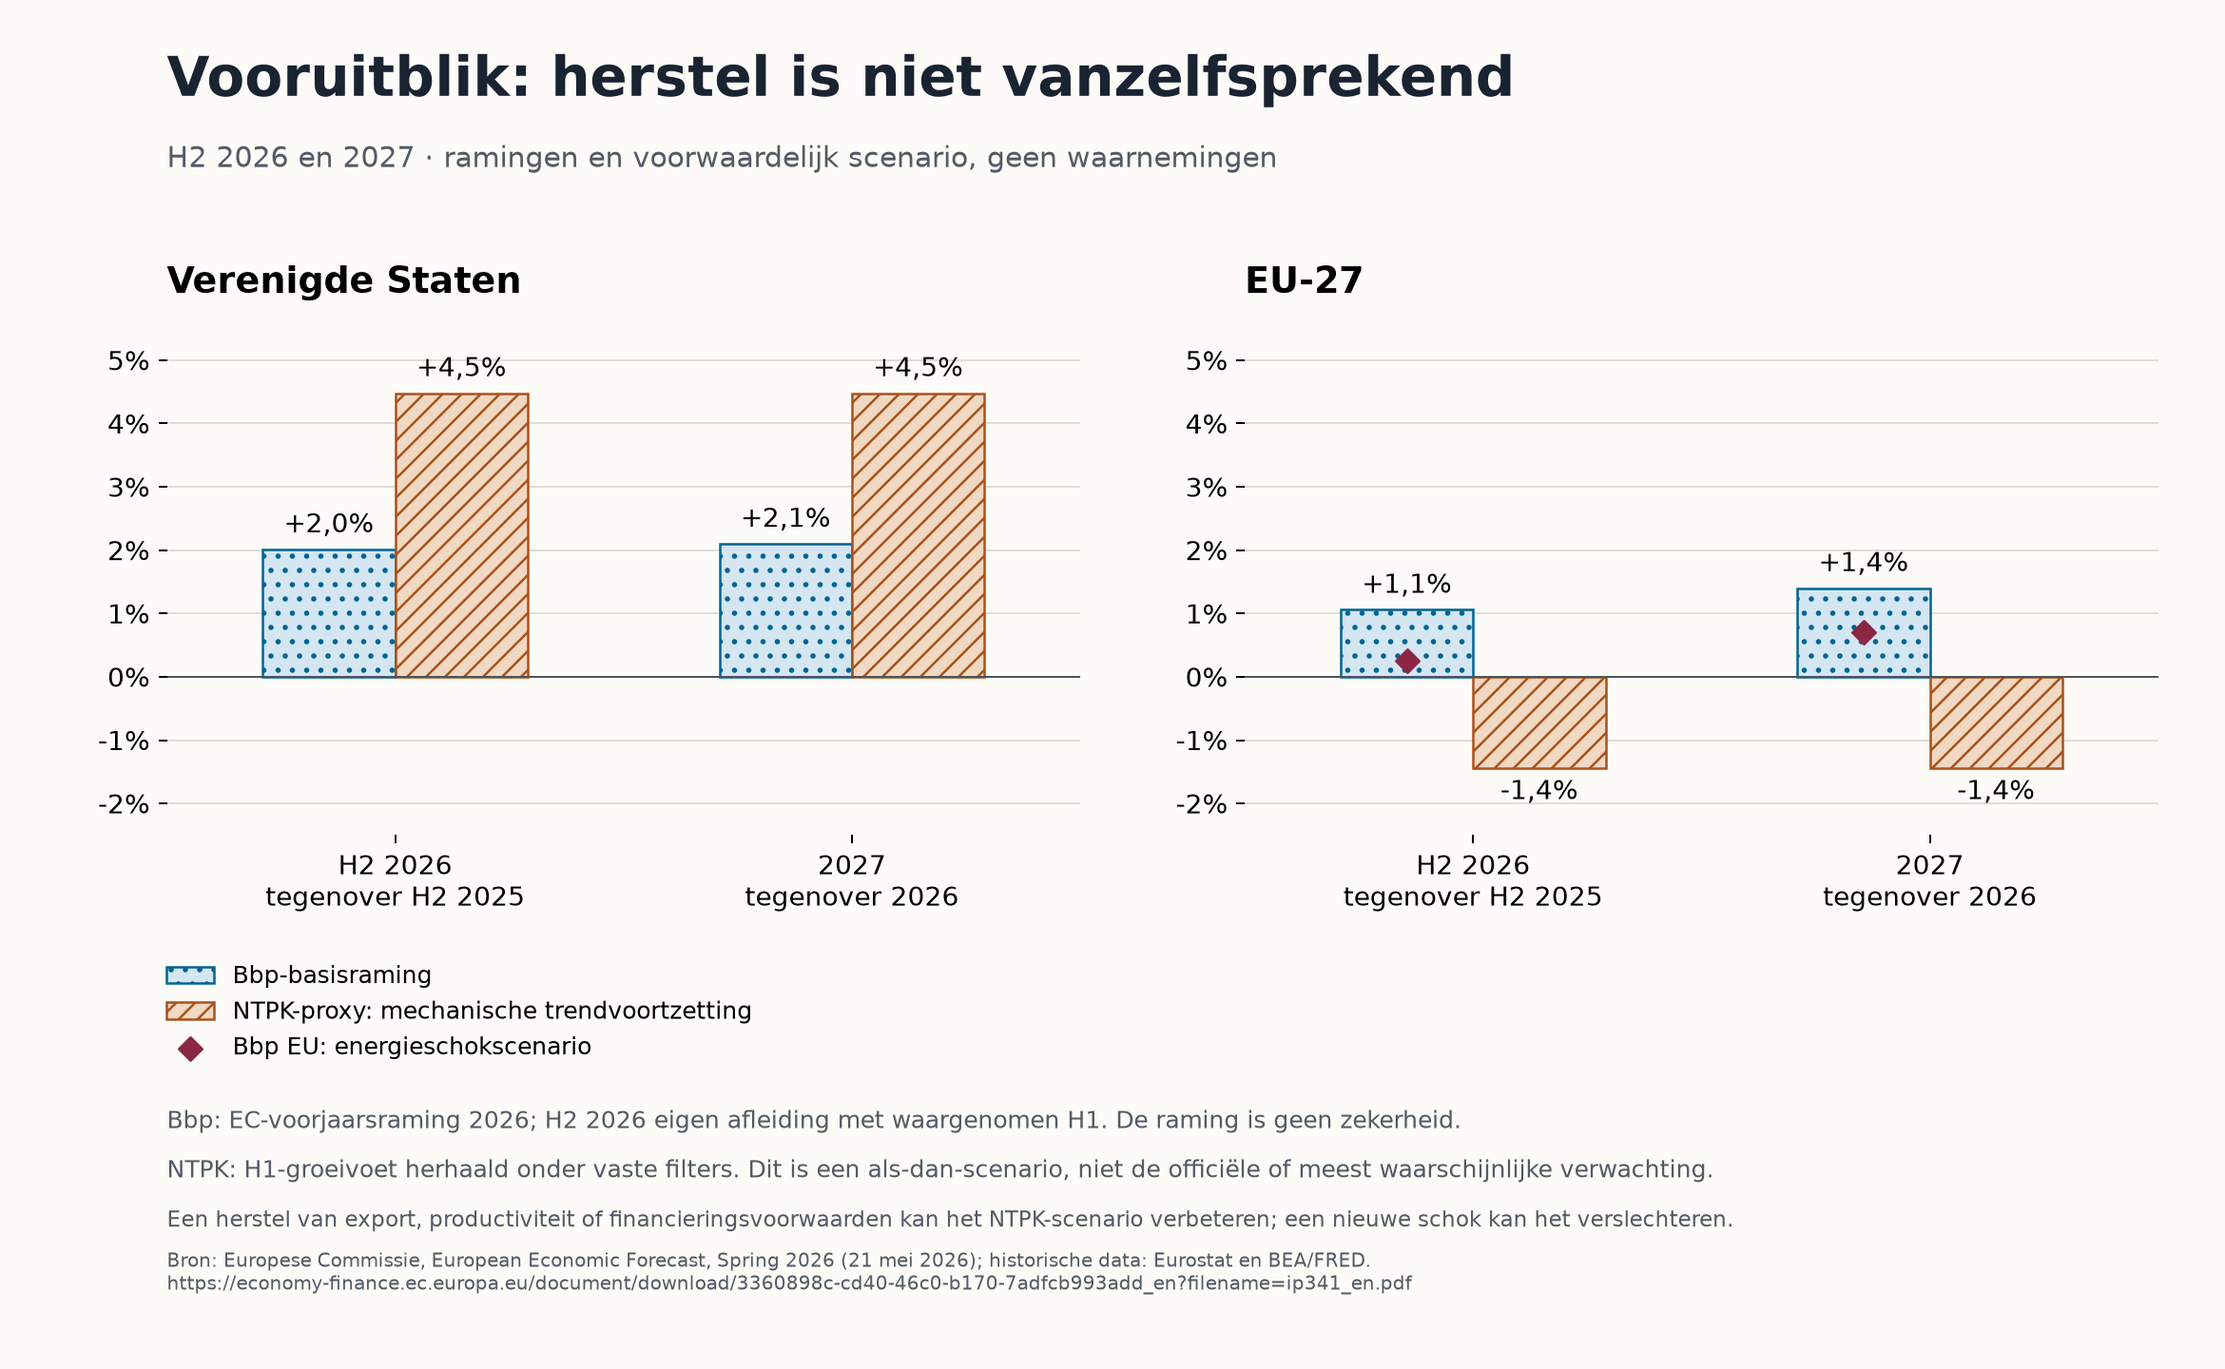
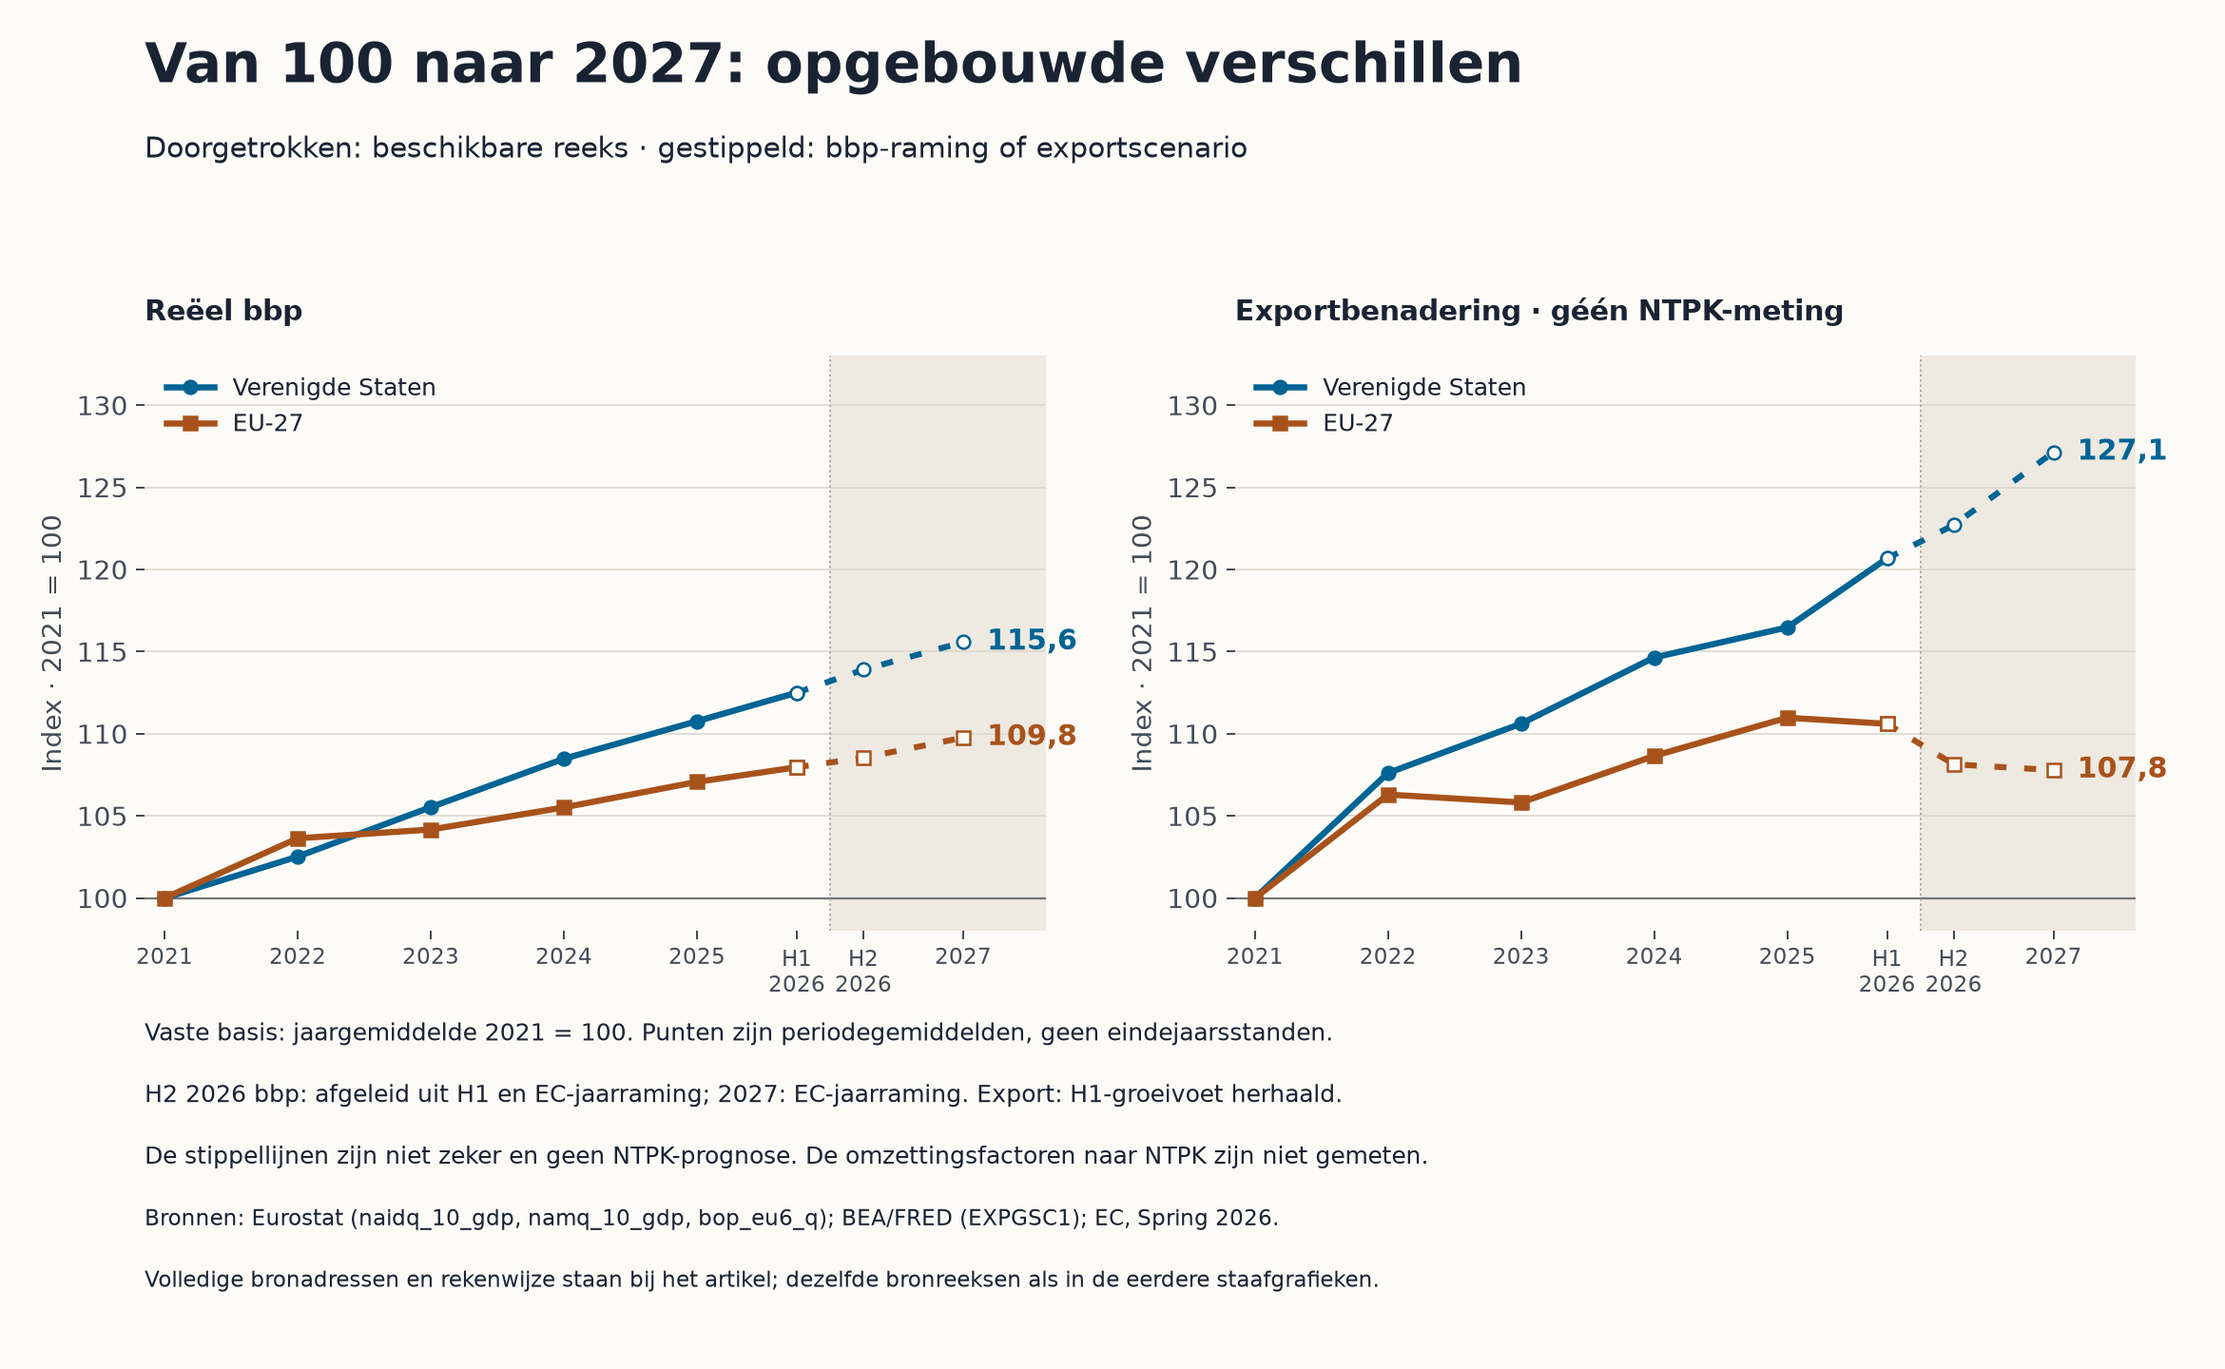
Toon cumulatieve ontwikkelingslijnen vanaf 2021=100 en begrens NTPK-conclusie

diff --git a/nl/wat-opkomt/van-uitholling-naar-wederopbouw.html b/nl/wat-opkomt/van-uitholling-naar-wederopbouw.html
@@ -431,23 +431,23 @@ pensioenpotten, spaargeld, woningen en bedrijven. Een langzame
 uitholling is gevaarlijker dan een snelle crisis, omdat elke stap nog
 draaglijk lijkt en niemand ingrijpt, terwijl het verloren gaat wat nog
 te redden was.</p>
-<h3 id="europa-groeikloof">2.10 Groei zonder versterking: Europa op de verkeerde weg</h3>
-<p>De vraag is niet alleen of het bbp groeit, maar of de productieve basis die deze groei moet dragen sterker wordt. Daarom zetten we voor de Verenigde Staten en de Europese Unie van 27 landen de reële bbp-groei naast een benadering van de exportgebonden NTPK-trend, over 2022–2025 en de eerste helft van 2026. De vergelijking van de eerste helft van 2026 is met de eerste helft van 2025, niet met een volledig jaar. [71–76]</p>
-<p><strong>M/S. De bbp-cijfers zijn statistische waarnemingen; de gearceerde NTPK-reeks is een berekende trendbenadering.</strong> Zij volgt de prijsgecorrigeerde externe exportstroom onder constante binnenlandse toegevoegde-waardeaandelen, productieve fractie en lastendruk. Bij de EU is handel tussen lidstaten uitgesloten. Veranderingen in deze omzettingsfactoren zijn niet afzonderlijk gemeten; de reeks is dus geen volledige NTPK-meting en evenmin een meting van innovatie of arbeidsmarktbeleid. [75, 76]</p>
-<figure class="growth-figure"><a href="/assets/wat-opkomt/van-uitholling-groei/VS-BBP-en-NTPK-trend.png" rel="noopener noreferrer" target="_blank"><img alt="VS: bbp-groei tegenover benaderde NTPK-trend, 2022 tot en met H1 2026; in H1 2026 respectievelijk plus 2,4 en plus 4,5 procent." height="1296" loading="lazy" src="/assets/wat-opkomt/van-uitholling-groei/VS-BBP-en-NTPK-trend.png" width="2160"/></a><figcaption>Verenigde Staten: bbp-groei en de berekende externe-exportbenadering van de NTPK-trend. Klik op de grafiek voor de volledige afbeelding.</figcaption></figure>
-<figure class="growth-figure"><a href="/assets/wat-opkomt/van-uitholling-groei/EU27-BBP-en-NTPK-trend.png" rel="noopener noreferrer" target="_blank"><img alt="EU-27: bbp-groei tegenover benaderde NTPK-trend, 2022 tot en met H1 2026; in H1 2026 respectievelijk plus 1,1 en min 1,4 procent." height="1296" loading="lazy" src="/assets/wat-opkomt/van-uitholling-groei/EU27-BBP-en-NTPK-trend.png" width="2160"/></a><figcaption>EU-27: het bbp groeit in H1 2026, terwijl de hier gebruikte benadering van de exportgebonden kern terugvalt. Het gaat om een voorwaardelijke trendberekening, niet om een rechtstreeks waargenomen NTPK-reeks.</figcaption></figure>
-<p>Het scherpste verschil verschijnt in de eerste helft van 2026: het Amerikaanse bbp groeit met ongeveer 2,4% en de exportgebonden trendbenadering met 4,5%; in de EU-27 groeit het bbp met ongeveer 1,1%, terwijl die trendbenadering met 1,4% daalt. Voor de EU is de prijsontwikkeling van de externe export benaderd met de prijsfactor van de totale uitvoer; die keuze kan de omvang en bij kleine veranderingen ook het teken van de uitkomst beïnvloeden. [71–76]</p>
-<p><strong>Mijn oordeel: dit is voor Europa de verkeerde richting.</strong> Niet omdat elke sector krimpt of omdat ieder kwartaal slechter is dan het vorige, maar omdat een positief totaalcijfer kan samengaan met verzwakking van de externe verdienbasis. De grafieken laten ook herstel in 2024 en 2025 zien; zij bewijzen geen onafgebroken neergang. De waarschuwing zit in de recente ontkoppeling: groei melden is onvoldoende wanneer de basis onder die groei niet aantoonbaar sterker wordt.</p>
+<h3 id="europa-groeikloof">2.10 De cumulatieve groeikloof tussen Europa en de VS</h3>
+<p>Losse groeipercentages laten niet zien welk verschil zich over meerdere jaren opbouwt. Daarom beginnen alle ontwikkelingslijnen hier bij dezelfde startwaarde: <strong>het jaargemiddelde van 2021 is 100</strong>. De index voor iedere latere periode is 100 maal het reële niveau in die periode gedeeld door het reële jaargemiddelde van 2021. De basis verandert niet bij de overgang naar een halfjaar. De vergelijking betreft de Verenigde Staten en de EU-27. [73–76]</p>
+<p><strong>M/S. Het bbp is statistisch gemeten; de andere lijn is de eerder gebruikte exportbenadering, geen volledige NTPK-meting.</strong> Voor de VS gaat het om de reële uitvoer; voor de EU om extra-EU uitvoer, prijsgecorrigeerd met de prijsfactor van de totale uitvoer. Alleen de exportstroom is hier in de tijd berekend. Binnenlandse toegevoegde-waardeaandelen, productieve fractie α en lastendruk τ zijn niet jaarlijks opnieuw vastgesteld. Hun veranderingen kunnen de werkelijke NTPK anders laten verlopen. Deze ontbrekende berekening wordt niet vervangen door een NTPK-label. [73–76]</p>
+<figure class="growth-figure"><a href="/assets/wat-opkomt/van-uitholling-groei/VS-BBP-en-NTPK-trend.png?v=cumulatief-100" rel="noopener noreferrer" target="_blank"><img alt="Cumulatieve ontwikkeling Verenigde Staten, 2021 is 100. H1 2026: reëel bbp 112,5 en reële export 120,7. De exportlijn is geen volledige NTPK-meting." height="1296" loading="lazy" src="/assets/wat-opkomt/van-uitholling-groei/VS-BBP-en-NTPK-trend.png?v=cumulatief-100" width="2160"/></a><figcaption>Verenigde Staten: beide lijnen starten op 100. De punten voor 2021–2025 zijn jaargemiddelden; H1 2026 is het halfjaargemiddelde op dezelfde vaste basis.</figcaption></figure>
+<figure class="growth-figure"><a href="/assets/wat-opkomt/van-uitholling-groei/EU27-BBP-en-NTPK-trend.png?v=cumulatief-100" rel="noopener noreferrer" target="_blank"><img alt="Cumulatieve ontwikkeling EU-27, 2021 is 100. H1 2026: reëel bbp 108,0 en externe-exportbenadering 110,6. De exportbenadering ligt nog boven 2021 en is cumulatief sterker gestegen dan het bbp." height="1296" loading="lazy" src="/assets/wat-opkomt/van-uitholling-groei/EU27-BBP-en-NTPK-trend.png?v=cumulatief-100" width="2160"/></a><figcaption>EU-27: de exportbenadering valt recent iets terug, maar staat nog boven het niveau van 2021. Zij bewijst geen onafgebroken afbraak van de productieve kern.</figcaption></figure>
+<p>Op deze vaste basis bereikt het Amerikaanse bbp in H1 2026 een index van 112,5 en het Europese bbp 108,0: respectievelijk ongeveer 12,5% en 8,0% boven het jaargemiddelde van 2021. De exportlijnen staan op 120,7 voor de VS en 110,6 voor de EU. De Europese exportbenadering is sinds 2021 dus cumulatief sterker gestegen dan het Europese bbp. Voor de EU blijft de exportprijscorrectie een benadering: de prijsfactor omvat ook intra-EU handel, hoewel de getoonde exportstroom die handel uitsluit. [73–76]</p>
+<p><strong>De waarschuwing is een relatieve achterstand en recente verzwakking, niet een bewezen jarenlange instorting.</strong> De VS lopen in deze reeksen verder uit op Europa; in de Europese exportbenadering is bovendien een recente terugval zichtbaar. Maar de formulering “groei zonder versterking” ging op grond van deze grafieken te ver: de cumulatieve exportlijn ligt nog boven haar startniveau. Evenmin rechtvaardigt een exportbenadering op zichzelf een uitspraak over de volledige NTPK. Voor zo’n uitspraak moeten de jaarlijkse omzettingsfactoren worden meegerekend.</p>
 <p>Ook de mogelijkheid om bedrijven te vernieuwen telt mee. De OECD constateert dat buitensporige of onvoorspelbare ontslagkosten de verplaatsing van arbeid naar productievere activiteiten kunnen remmen, maar wijst ook op de waarde van behoud van bedrijfsspecifieke kennis. Dat ondersteunt de aandacht voor aanpassingsvermogen, zonder dat deze grafieken bewijzen welk deel van de groeikloof door ontslagbescherming of door één regering is veroorzaakt. [79]</p>
-<h3 id="groei-vooruitblik-2027">2.11 H2 2026 en 2027: het risico van doorgaan op dezelfde weg</h3>
-<p><strong>S. De toekomstkolommen zijn ramingen en scenario’s, geen waarnemingen.</strong> Voor een vergelijking met dezelfde geografische afbakening gebruiken we de voorjaarsraming 2026 van de Europese Commissie voor zowel de VS als de EU-27: voor het volledige jaar 2026 respectievelijk 2,2% en 1,1% bbp-groei, voor 2027 respectievelijk 2,1% en 1,4%. De informatiegrens van deze raming is 4 mei 2026. De Amerikaanse ramingen van 2,2% en 2,1% worden ook genoemd in de OECD-vooruitblik van september; de OECD-cijfers voor de eurozone worden hier niet als EU-27-cijfers gebruikt. [77, 78]</p>
-<p>De bbp-balken voor H2 2026 zijn een eigen rekenkundige afleiding: hoeveel groei ten opzichte van H2 2025 resteert als de genoemde jaarraming wordt gecombineerd met de inmiddels gemeten eerste helft van 2026? Dat komt afgerond neer op 2,0% voor de VS en 1,1% voor de EU-27. Het zijn geen afzonderlijke officiële halfjaarprognoses. [71–74, 77]</p>
-<p>Voor de NTPK-trend tonen we een eenvoudig <strong>als-dan-scenario</strong>: als de jaar-op-jaar-groeivoet van H1 2026 aanhoudt, blijft de Amerikaanse trendbenadering op ongeveer +4,5% en de Europese op ongeveer −1,4%, zowel in H2 2026 als in 2027. Die voortzetting is geen onafhankelijke prognose en krijgt geen waarschijnlijkheidspercentage. Zij maakt zichtbaar wat het uitblijven van herstel van de recente Europese exporttrend zou betekenen; betere of slechtere omstandigheden veranderen de uitkomst.</p>
-<figure class="growth-figure"><a href="/assets/wat-opkomt/van-uitholling-groei/Vooruitblik-groei-H2-2026-2027.png" rel="noopener noreferrer" target="_blank"><img alt="Vooruitblik H2 2026 en 2027: bbp-basisramingen, NTPK-proxy bij doorzetting van de recente trend en een afzonderlijk Europees energieschokscenario." height="1440" loading="lazy" src="/assets/wat-opkomt/van-uitholling-groei/Vooruitblik-groei-H2-2026-2027.png" width="2340"/></a><figcaption>Vooruitblik met afzonderlijke statussen: bbp-basisraming, rekenkundige halfjaarafleiding en mechanische NTPK-trendvoortzetting. De ruitjes tonen het energieschokscenario voor het Europese bbp.</figcaption></figure>
-<p>Dat de risico’s serieus zijn, blijkt ook uit het ongunstige energiescenario van de Europese Commissie: bij een grotere en langduriger verstoring daalt de verwachte EU-groei naar 0,7% in zowel 2026 als 2027, tegenover 1,1% en 1,4% in het basisscenario. Voor H2 2026 impliceert de jaarraming van 0,7%, gecombineerd met de gemeten eerste helft, ongeveer 0,3% groei tegenover H2 2025. Dit is een ander scenario dan de NTPK-trendvoortzetting; de twee mogen niet als één gezamenlijk doorgerekend model worden gelezen. [77]</p>
+<h3 id="groei-vooruitblik-2027">2.11 Verdere ontwikkelingslijnen naar 2027</h3>
+<p><strong>S. Vanaf H2 2026 zijn de lijnen gestippeld: het zijn ramingen en scenario’s, geen waarnemingen.</strong> Voor het bbp blijven de eerder gebruikte voorjaarsramingen 2026 van de Europese Commissie gehandhaafd: volledige jaargroei van 2,2% voor de VS en 1,1% voor de EU in 2026, gevolgd door 2,1% en 1,4% in 2027. De informatiegrens van deze ramingen is 4 mei 2026. Deze vaste ramingsversie is een rekenbasis, niet een nieuwe voorspelling op basis van alle informatie van eind september. [77]</p>
+<p>De bbp-index voor H2 2026 volgt uit twee maal het geraamde jaargemiddelde van 2026 minus het waargenomen gemiddelde van H1 2026. Voor 2027 wordt vervolgens het geraamde jaargemiddelde van 2026 met de officiële jaargroeivoet vermenigvuldigd. Een jaar-op-jaar-groeipercentage voor H1 wordt dus niet nogmaals boven op het volledige voorgaande jaar gezet. Met de vaste basis 2021 = 100 komt de bbp-index in 2027 uit op ongeveer 115,6 voor de VS en 109,8 voor de EU. [73, 74, 77]</p>
+<p>De verdere exportlijn is alleen een <strong>mechanisch als-dan-scenario</strong>: dezelfde jaar-op-jaar-verandering als in H1 2026 wordt toegepast op H2 2025 om H2 2026 te verkrijgen, en daarna op het jaargemiddelde van 2026 om 2027 te verkrijgen. De VS komen daarin op 127,1 en de EU op 107,8 in 2027. Dit is geen zelfstandige exportprognose en geen berekende NTPK-prognose. Het scenario laat zien wat voortzetting van de recente groeivoet zou betekenen, niet wat zeker of het waarschijnlijkst zal gebeuren. [75, 76]</p>
+<figure class="growth-figure"><a href="/assets/wat-opkomt/van-uitholling-groei/Vooruitblik-groei-H2-2026-2027.png?v=cumulatief-100" rel="noopener noreferrer" target="_blank"><img alt="Alle lijnen starten in 2021 op 100. Historie is doorgetrokken; H2 2026 en 2027 zijn gestippeld. In 2027: bbp VS 115,6 en EU 109,8; exportscenario VS 127,1 en EU 107,8. De exportlijn is geen NTPK-meting." height="1440" loading="lazy" src="/assets/wat-opkomt/van-uitholling-groei/Vooruitblik-groei-H2-2026-2027.png?v=cumulatief-100" width="2340"/></a><figcaption>Bekende en verdere ontwikkeling op één vaste basis. Links bbp-ramingen, rechts een mechanische voortzetting van de exporttrend. Jaar- en halfjaarwaarden zijn periodegemiddelden, geen eindejaarsstanden.</figcaption></figure>
+<p>Een afzonderlijk ongunstig energiescenario van de Europese Commissie verlaagt de Europese bbp-groei tot 0,7% in zowel 2026 als 2027. Dat zou op dezelfde basis een bbp-index van ongeveer 108,6 in 2027 betekenen, in plaats van 109,8 in de basisraming. Ook dat scenario voorspelt dus geen terugval tot onder het bbp-niveau van 2021. Het mag niet zonder gezamenlijke doorrekening worden samengevoegd met het exportscenario rechts in de grafiek. [77]</p>
 <p><strong>De bestuurlijke rekening.</strong> Een onderneming die haar productieve basis verwaarloost, noodzakelijke vernieuwing uitstelt en vervolgens alleen de totale geldstroom als succes presenteert, lost haar probleem niet op. Ook voor overheden verdwijnt de economische rekening niet doordat zij later wordt betaald. De vraag is daarom niet hoe lang het bbp nog positief blijft, maar of energie, investeringsruimte, vaardigheden en uitvoeringsvermogen op tijd worden versterkt.</p>
-<p><strong>De koers moet veranderen vóór de herstelruimte verdwijnt.</strong> De huidige cijfers bewijzen geen onvermijdelijke instorting, maar geven evenmin reden om een zwakke productieve ontwikkeling achter een positief bbp-cijfer te laten verdwijnen. De Commissie noemt snellere structurele hervormingen en een sterkere energiepositie juist als opwaartse kansen. Wederopbouw begint dus niet met wachten op de crisis, maar met het herstellen van de voorwaarden waaronder bedrijven nu kunnen investeren en produceren. [77]</p>
-<p class="growth-method">Rekenbasis en afbakening: de historische NTPK-benadering gebruikt geen appwaarden voor α, τ of eigendom; de constante omzettingsfactoren vallen weg bij het berekenen van de procentuele trend. De EU-prijscorrectie is benaderend. Voor 2027 is geen reeds gemeten of rechtstreeks statistisch geraamde NTPK-waarde beschikbaar in deze uitwerking. Peildatum van de aanvulling: 30 september 2026.</p>
+<p><strong>De koers beoordelen vraagt om de juiste meetlat.</strong> De groeikloof en de recente Europese exportterugval zijn redenen om het investerings- en productieklimaat kritisch te beoordelen. Deze grafieken leveren echter geen bewijs dat de gehele Europese NTPK sinds 2021 afneemt. Een beleidswaarschuwing is sterker wanneer duidelijk blijft wat de cijfers werkelijk laten zien en wat nog berekend moet worden. De Commissie noemt snellere structurele hervormingen en een sterkere energiepositie als opwaartse kansen. [77]</p>
+<p class="growth-method">Rekenbasis: I(t) = 100 × X(t) / jaargemiddelde X(2021). Voor alle historische bbp-punten worden dezelfde kwartaalniveaus gebruikt, zodat verschillen door afgeronde jaarpercentages of bronversies niet worden opgestapeld. H1 2026 houdt dezelfde jaarbasis 2021; er wordt niet stilzwijgend overgeschakeld naar H1 2021 = 100. Doorgetrokken betekent beschikbaar bronmateriaal, niet dat de exportlijn een volledige NTPK-meting is. Er zijn geen ontbrekende NTPK-factoren ingevuld. Peildatum: 30 september 2026.</p>
 <h2 id="frankrijk-als-eerste-breukpunt-en-de-volgorde-daarna">3.
 Frankrijk als eerste breukpunt en de volgorde daarna</h2>
 <p>Het scenario is dat een breuk tussen rijk en arm eerst in Frankrijk
